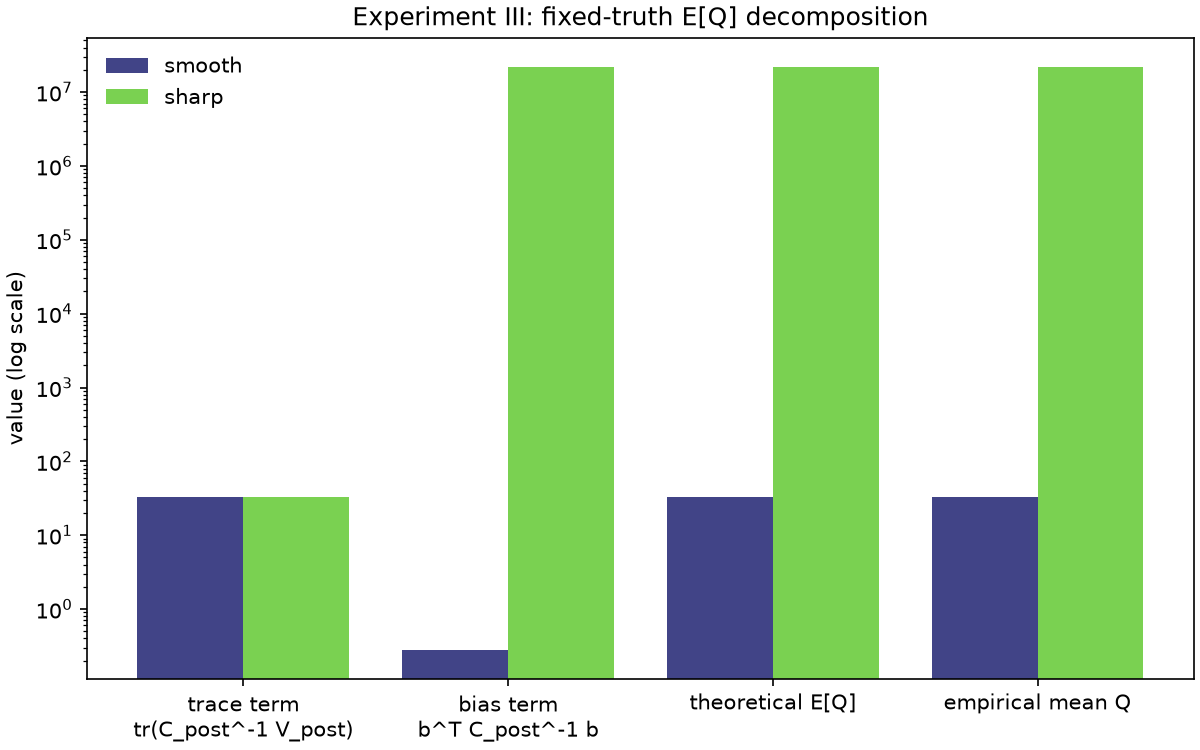
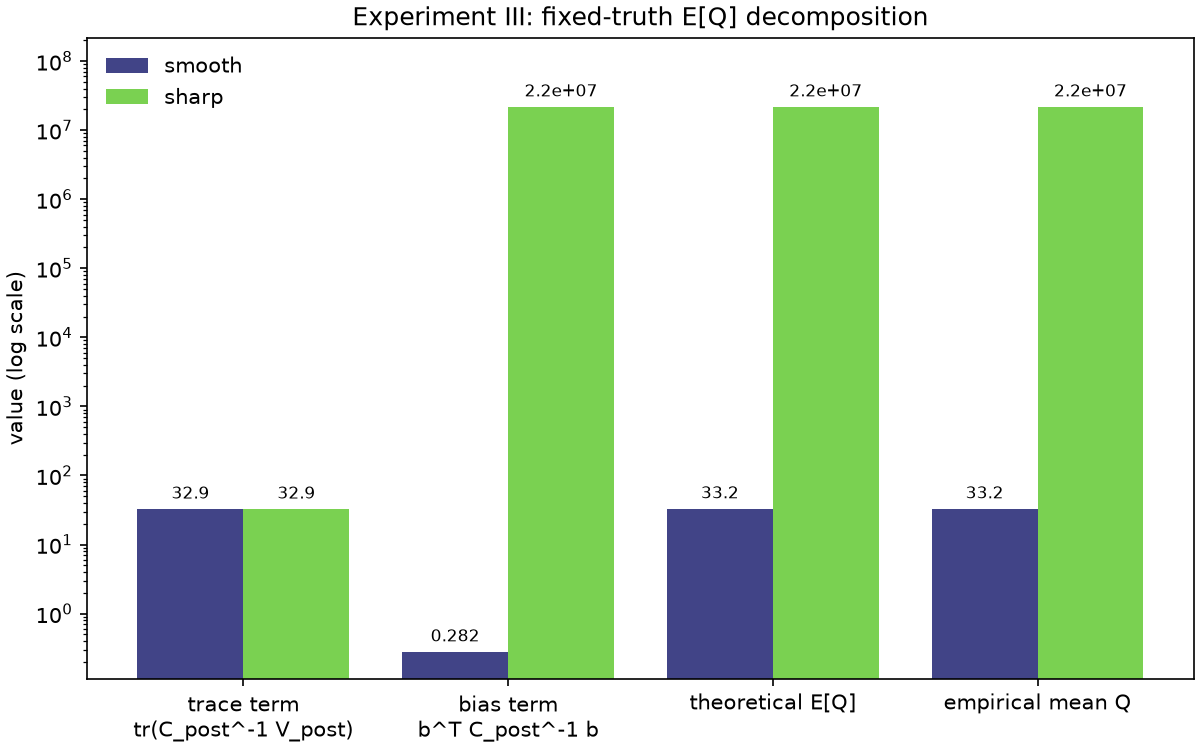
Improve figure clarity: fix ray-pairing geometry, add figure 5 uncertainty panels, figure 6 value labels, figure 7 cautious subtitle, figure 3 caption, README figure embed

diff --git a/tomography/plots.py b/tomography/plots.py
@@ -17,9 +17,10 @@ from __future__ import annotations
 
 import matplotlib.pyplot as plt
 import numpy as np
+from matplotlib.patches import Rectangle
 from scipy.stats import chi2
 
-from .geometry import Grid
+from .geometry import Grid, build_sensitivity_matrix
 
 
 def _as_image(field: np.ndarray, grid: Grid) -> np.ndarray:
@@ -143,16 +144,16 @@ def plot_geometry_schematic(
     grid: Grid,
     sources: np.ndarray,
     receivers: np.ndarray,
-    max_rays_shown: int = 40,
-    rng: np.random.Generator | None = None,
     save_path: str | None = None,
 ) -> plt.Figure:
     """Domain/acquisition schematic: grid lines, sources (left, `x=0`),
-    receivers (right, `x=W`), and a representative random subset of
-    straight source-receiver rays (all m rays are drawn when
-    `Ns * Nr <= max_rays_shown`; otherwise a random subset is shown purely
-    so the figure stays legible -- the actual sensitivity matrix `A` still
-    uses every ray).
+    receivers (right, `x=W`), a small deterministic "context" subsample of
+    rays (one per source, offset-paired with a receiver -- `Ns` rays total,
+    not all `Ns * Nr`, since drawing every ray renders as an unreadable
+    tangle at typical acquisition densities), and one specifically
+    highlighted ray with the grid cells it actually intersects shaded, to
+    make the ray/cell relationship concrete. The actual sensitivity matrix
+    `A` still uses every ray regardless of what this schematic draws.
     """
     fig, ax = plt.subplots(figsize=(6, 6), constrained_layout=True)
 
@@ -160,16 +161,40 @@ def plot_geometry_schematic(
         ax.axhline(edge, color="lightgray", linewidth=0.5, zorder=0)
         ax.axvline(edge, color="lightgray", linewidth=0.5, zorder=0)
 
-    all_pairs = [(s, r) for s in sources for r in receivers]
-    if len(all_pairs) > max_rays_shown:
-        rng = rng if rng is not None else np.random.default_rng(0)
-        idx = rng.choice(len(all_pairs), size=max_rays_shown, replace=False)
-        shown_pairs = [all_pairs[i] for i in idx]
-    else:
-        shown_pairs = all_pairs
+    Ns, Nr = len(sources), len(receivers)
+    # One context ray per source, deterministically offset-paired with a
+    # receiver (source i -> receiver (i + 4) mod Nr): the wraparound splits
+    # the rays into two mutually-parallel families at different slopes,
+    # which cross each other at many distinct points -- a legible fan.
+    # Two alternatives were tried and rejected: round-robin (receiver i % Nr)
+    # produced all-horizontal, fully overlapping rays whenever Ns == Nr with
+    # matching source/receiver spacing (as in this project's configs); a
+    # full mirror (receiver Nr-1-i) fixed that but made every ray cross
+    # through one common point (the exact domain center) -- an artifact of
+    # the pairing rule, not a real property of the acquisition, which could
+    # be misread as a geometric fact about the rays.
+    offset = 4
+    for s_idx in range(Ns):
+        s, r = sources[s_idx], receivers[(s_idx + offset) % Nr]
+        ax.plot([s[0], r[0]], [s[1], r[1]], color="steelblue", alpha=0.4, linewidth=1.0, zorder=1)
 
-    for s, r in shown_pairs:
-        ax.plot([s[0], r[0]], [s[1], r[1]], color="steelblue", alpha=0.35, linewidth=0.8, zorder=1)
+    # Highlight one specific ray (the middle source to the middle receiver)
+    # and shade the grid cells it actually intersects, using the real
+    # sensitivity-matrix construction for that single ray -- not a visual
+    # approximation.
+    highlight_source = sources[Ns // 2 : Ns // 2 + 1]
+    highlight_receiver = receivers[Nr // 2 : Nr // 2 + 1]
+    A_single_ray = build_sensitivity_matrix(highlight_source, highlight_receiver, grid)
+    intersected_cells = np.flatnonzero(A_single_ray[0])
+    for cell in intersected_cells:
+        i, j = divmod(int(cell), grid.n)
+        x0, x1 = grid.edges[j], grid.edges[j + 1]
+        y0, y1 = grid.edges[i], grid.edges[i + 1]
+        ax.add_patch(Rectangle((x0, y0), x1 - x0, y1 - y0, facecolor="gold", alpha=0.5, zorder=0.5))
+
+    s_h, r_h = highlight_source[0], highlight_receiver[0]
+    ax.plot([s_h[0], r_h[0]], [s_h[1], r_h[1]], color="crimson", linewidth=2.5, zorder=3,
+            label=f"highlighted ray ({len(intersected_cells)} cells)")
 
     ax.scatter(sources[:, 0], sources[:, 1], color="crimson", marker="o", s=40,
                label="sources (x=0)", zorder=2)
@@ -181,8 +206,8 @@ def plot_geometry_schematic(
     ax.set_aspect("equal")
     ax.set_xlabel("x")
     ax.set_ylabel("y")
-    ax.set_title(f"Acquisition geometry ({len(sources)} sources x {len(receivers)} receivers)")
-    ax.legend(loc="upper center", bbox_to_anchor=(0.5, -0.08), ncol=2, frameon=False)
+    ax.set_title(f"Acquisition geometry ({Ns} sources x {Nr} receivers)")
+    ax.legend(loc="upper center", bbox_to_anchor=(0.5, -0.1), ncol=2, frameon=False, fontsize=9)
 
     if save_path is not None:
         fig.savefig(save_path, dpi=150)
@@ -265,35 +290,76 @@ def plot_fixed_truth_comparison(
     grid: Grid,
     smooth_truth: np.ndarray,
     smooth_post_mean: np.ndarray,
+    smooth_post_std: np.ndarray,
     sharp_truth: np.ndarray,
     sharp_post_mean: np.ndarray,
+    sharp_post_std: np.ndarray,
     save_path: str | None = None,
 ) -> plt.Figure:
-    """Experiment III: smooth vs. sharp fixed truth, truth and posterior
-    mean side by side for each, on one shared `viridis` scale (all four
-    panels are the same physical quantity, in the same units).
+    """Experiment III: smooth vs. sharp fixed truth -- truth, posterior
+    mean, and posterior std, one row per truth (six panels total).
+
+    Truth and posterior mean (both rows) share one `viridis` scale (same
+    physical quantity, same units). The two posterior-std panels share their
+    own `magma` scale, deliberately fixed to be identical for both rows: per
+    `ARCHITECTURE.md`'s fixed-truth decomposition, `C_post` depends only on
+    `A`, `Cs`, and `Sigma_d`, never on `s_true`, so the smooth and sharp
+    posterior standard deviations are expected to be (and, for this
+    project's frozen baselines, are confirmed numerically to be) identical.
+    The two std panels looking visually indistinguishable is therefore the
+    *correct* result, not a plotting artifact -- it is a direct visual
+    demonstration that the posterior's claimed uncertainty is blind to
+    whether the fixed truth matches the prior.
     """
-    fig, axes = plt.subplots(2, 2, figsize=(10, 9), constrained_layout=True)
+    fig, axes = plt.subplots(2, 3, figsize=(15, 9), constrained_layout=True)
     extent = [0.0, grid.W, 0.0, grid.W]
 
-    fields = [
+    slowness_fields = [
         (smooth_truth, "Smooth truth (Gaussian anomaly)"),
         (smooth_post_mean, "Smooth: posterior mean"),
         (sharp_truth, "Sharp truth (checkerboard)"),
         (sharp_post_mean, "Sharp: posterior mean"),
     ]
-    vmin = min(f.min() for f, _ in fields)
-    vmax = max(f.max() for f, _ in fields)
+    vmin = min(f.min() for f, _ in slowness_fields)
+    vmax = max(f.max() for f, _ in slowness_fields)
 
-    for ax, (field, title) in zip(axes.ravel(), fields):
-        im = ax.imshow(
-            _as_image(field, grid), origin="lower", extent=extent,
-            cmap="viridis", vmin=vmin, vmax=vmax,
+    std_fields = [
+        (smooth_post_std, "Smooth: posterior std"),
+        (sharp_post_std, "Sharp: posterior std"),
+    ]
+    std_vmin = min(f.min() for f, _ in std_fields)
+    std_vmax = max(f.max() for f, _ in std_fields)
+
+    for row, (truth, mean, std, prefix) in enumerate(
+        [(smooth_truth, smooth_post_mean, smooth_post_std, "Smooth"),
+         (sharp_truth, sharp_post_mean, sharp_post_std, "Sharp")]
+    ):
+        for col, (field, title) in enumerate([
+            (truth, f"{prefix} truth" + (" (Gaussian anomaly)" if row == 0 else " (checkerboard)")),
+            (mean, f"{prefix}: posterior mean"),
+        ]):
+            im = axes[row, col].imshow(
+                _as_image(field, grid), origin="lower", extent=extent,
+                cmap="viridis", vmin=vmin, vmax=vmax,
+            )
+            axes[row, col].set_title(title)
+            axes[row, col].set_xlabel("x")
+            axes[row, col].set_ylabel("y")
+            fig.colorbar(im, ax=axes[row, col], shrink=0.85, label="slowness")
+
+        im_std = axes[row, 2].imshow(
+            _as_image(std, grid), origin="lower", extent=extent,
+            cmap="magma", vmin=std_vmin, vmax=std_vmax,
         )
-        ax.set_title(title)
-        ax.set_xlabel("x")
-        ax.set_ylabel("y")
-        fig.colorbar(im, ax=ax, shrink=0.85, label="slowness")
+        axes[row, 2].set_title(f"{prefix}: posterior std")
+        axes[row, 2].set_xlabel("x")
+        axes[row, 2].set_ylabel("y")
+        fig.colorbar(im_std, ax=axes[row, 2], shrink=0.85, label="posterior std")
+
+    fig.suptitle(
+        "Posterior std is identical for both rows -- C_post does not depend on s_true",
+        fontsize=11,
+    )
 
     if save_path is not None:
         fig.savefig(save_path, dpi=150)
@@ -325,13 +391,18 @@ def plot_q_decomposition(components: dict, save_path: str | None = None) -> plt.
 
     for i, case in enumerate(cases):
         values = [components[case][q] for q in quantities]
-        ax.bar(x + i * width, values, width, label=case, color=colors[i])
+        bars = ax.bar(x + i * width, values, width, label=case, color=colors[i])
+        # Numeric value labels above every bar: on a log axis spanning
+        # ~10^0 to ~10^7, the smooth-truth bias term (~0.28) would otherwise
+        # be visually indistinguishable from zero.
+        ax.bar_label(bars, labels=[f"{v:.3g}" for v in values], fontsize=8, padding=3)
 
     ax.set_yscale("log")
     ax.set_xticks(x + width * (len(cases) - 1) / 2)
     ax.set_xticklabels(labels)
     ax.set_ylabel("value (log scale)")
     ax.set_title("Experiment III: fixed-truth E[Q] decomposition")
+    ax.set_ylim(top=ax.get_ylim()[1] * 4)  # headroom for the top value labels
     ax.legend(frameon=False)
 
     if save_path is not None:
@@ -354,13 +425,18 @@ def plot_boundary_interior_coverage(
     """
     nominal = [1.0 - a for a in alphas]
 
-    fig, ax = plt.subplots(figsize=(6, 5), constrained_layout=True)
+    fig, ax = plt.subplots(figsize=(7, 6.3), constrained_layout=True)
     ax.plot([0, 1], [0, 1], color="gray", linestyle="--", linewidth=1, label="perfect calibration")
     ax.plot(nominal, boundary_coverage, marker="o", color="darkorange", label="boundary cells")
     ax.plot(nominal, interior_coverage, marker="s", color="steelblue", label="interior cells")
     ax.set_xlabel("nominal coverage (1 - alpha)")
     ax.set_ylabel("empirical coverage")
-    ax.set_title("Experiment III (sharp): boundary vs. interior coverage")
+    ax.set_title(
+        "Experiment III (sharp, block_size=4): boundary vs. interior coverage\n"
+        "Ray density, posterior variance, and bias/noise ratios checked --\n"
+        "none explains this gap",
+        fontsize=10,
+    )
     ax.set_xlim(0, 1)
     ax.set_ylim(0, 1)
     ax.set_aspect("equal")

diff --git a/scripts/make_figures.py b/scripts/make_figures.py
@@ -78,8 +78,10 @@ def figure_5_experiment_III_fixed_truth() -> None:
         grid,
         smooth_truth=smooth_npz["truths"][0],
         smooth_post_mean=smooth_npz["posterior_means"][0],
+        smooth_post_std=smooth_npz["posterior_stds"][0],
         sharp_truth=sharp_npz["truths"][0],
         sharp_post_mean=sharp_npz["posterior_means"][0],
+        sharp_post_std=sharp_npz["posterior_stds"][0],
         save_path=str(FIGURES_DIR / "figure_5_experiment_III_fixed_truth.png"),
     )
     print("Saved figure_5_experiment_III_fixed_truth.png")

diff --git a/README.md b/README.md
@@ -106,19 +106,35 @@ Curated final figures live under `figures/` (tracked; regenerate with
 `scripts/make_figures.py`, which reads `configs/baseline.yaml` and the frozen
 `results/baselines/` outputs and never regenerates those baselines):
 
-1. `figure_1_geometry.png` — domain, sources, receivers, a sample of rays.
+![Experiment I reconstruction: true field, posterior mean, posterior std, and reconstruction error](figures/figure_3_experiment_I_reconstruction.png)
+
+1. `figure_1_geometry.png` — domain, sources, receivers, a small deterministic
+   sample of rays (one per source) plus one highlighted ray with the grid
+   cells it actually intersects shaded.
 2. `figure_2_ray_coverage.png` — per-cell total ray-intersection length.
-3. `figure_3_experiment_I_reconstruction.png` — true field / posterior mean /
-   posterior std / reconstruction error.
+3. `figure_3_experiment_I_reconstruction.png` (above) — true field / posterior
+   mean / posterior std / reconstruction error. The fourth panel is the
+   absolute error for a *single noisy realization*; its unstructured
+   appearance reflects that one realization's noise draw, not a systematic
+   spatial error pattern.
 4. `figure_4_experiment_II_calibration.png` — `Q` vs. `chi2(n_cells)`, and
    coverage vs. nominal.
-5. `figure_5_experiment_III_fixed_truth.png` — smooth vs. sharp truth and
-   posterior mean.
+5. `figure_5_experiment_III_fixed_truth.png` — smooth vs. sharp truth,
+   posterior mean, and posterior std (six panels). The two posterior-std
+   panels are visually indistinguishable, and this is the *correct* result,
+   not a plotting artifact: `C_post` depends only on `A`, `Cs`, and `Sigma_d`
+   — never on `s_true` (confirmed numerically: the two frozen baselines'
+   `posterior_stds` are bit-identical) — so the posterior's claimed
+   uncertainty is the same regardless of whether the fixed truth matches the
+   prior.
 6. `figure_6_fixed_truth_Q_decomposition.png` — the `E[Q] = tr(C_post^-1
-   V_post) + b^T C_post^-1 b` decomposition, smooth vs. sharp.
+   V_post) + b^T C_post^-1 b` decomposition, smooth vs. sharp, with numeric
+   value labels on every bar (the smooth bias term, ~0.28, is otherwise
+   invisible on a log axis spanning ~10^0 to ~10^7).
 7. `figure_7_boundary_interior_coverage.png` — the sharp-truth
    boundary/interior coverage comparison from `ARCHITECTURE.md`'s
-   investigation (shown as-is, not re-derived).
+   investigation (shown as-is, not re-derived); the subtitle on the figure
+   itself states what was checked and that none of it explains the gap.
 
 ## Development
 
